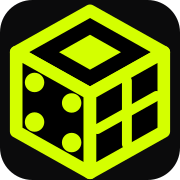
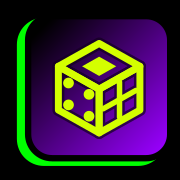
Icono nuevo de pestaña y de app en el estilo de placa de la familia AVHUB

diff --git a/vista/consola.html b/vista/consola.html
@@ -15,9 +15,9 @@
   <title>SCREENS · varias pantallas y proyección</title>
   <meta name="description" content="SCREENS: cálculo y simulación 3D de varias pantallas LED o de proyección y salas inmersivas de hasta 4 paredes y suelo.">
   <meta name="theme-color" content="#232325">
-  <link rel="icon" href="assets/screens-icono.svg?v=10.83" type="image/svg+xml">
-  <link rel="icon" href="assets/screens-icono-32.png?v=10.83" sizes="32x32" type="image/png">
-  <link rel="apple-touch-icon" href="assets/screens-icono-180.png?v=10.83">
+  <link rel="icon" href="assets/screens-icono-placa.svg?v=placa" type="image/svg+xml">
+  <link rel="icon" href="assets/screens-icono-32.png?v=placa" sizes="32x32" type="image/png">
+  <link rel="apple-touch-icon" href="assets/screens-icono-180.png?v=placa">
   <link rel="manifest" href="manifest.json?v=10.83">
   <!-- v7.2 · preferencias guardadas: pasan una sola vez de las claves antiguas a las nuevas (screens_*) -->
   <script>(function(){try{var L=localStorage,A='screencalc_',m={lang:'idioma',tema:'tema',pared:'pared',fuentes_v2:'fuentes_v2',descarga:'descarga'};Object.keys(m).forEach(function(k){var v=L.getItem(A+k);if(v!==null&&L.getItem('screens_'+m[k])===null)L.setItem('screens_'+m[k],v);L.removeItem(A+k);});['modelos_cache','electronicas_cache','hierros_cache','cache_timestamp'].forEach(function(k){L.removeItem(A+k);});}catch(e){}})();</script>

diff --git a/configuradores/index.html b/configuradores/index.html
@@ -8,9 +8,9 @@
 <meta property="og:title" content="Configuradores de pantallas">
 <meta property="og:description" content="SCREENS o el configurador oficial de TRAULUX: elige el que necesitas.">
 <meta property="og:image" content="https://screens.mediaservi.com/assets/promo/traulux-banner-728x90.png">
-<link rel="icon" href="../assets/screens-icono.svg?v=10.32" type="image/svg+xml">
-<link rel="icon" href="../assets/screens-icono-32.png?v=10.32" sizes="32x32" type="image/png">
-<link rel="apple-touch-icon" href="../assets/screens-icono-180.png?v=10.32">
+<link rel="icon" href="../assets/screens-icono-placa.svg?v=placa" type="image/svg+xml">
+<link rel="icon" href="../assets/screens-icono-32.png?v=placa" sizes="32x32" type="image/png">
+<link rel="apple-touch-icon" href="../assets/screens-icono-180.png?v=placa">
 <style>
 @font-face{font-family:'Inter';font-style:normal;font-weight:400;font-display:swap;src:url(../assets/fonts/inter-latin-400-normal.woff2) format('woff2')}
 @font-face{font-family:'Inter';font-style:normal;font-weight:500;font-display:swap;src:url(../assets/fonts/inter-latin-500-normal.woff2) format('woff2')}

diff --git a/blocks/consola.html b/blocks/consola.html
@@ -1,1 +1,1 @@
-<!doctype html><html lang="es"><head><meta charset="utf-8"><meta http-equiv="Cache-Control" content="no-cache, no-store, must-revalidate"><meta http-equiv="Pragma" content="no-cache"><meta http-equiv="Expires" content="0"><meta name="robots" content="noindex"><title>SCREENS</title><link rel="icon" href="../assets/screens-icono.svg?v=10.32" type="image/svg+xml"><script>location.replace('../vista/consola.html' + location.search + location.hash);</script></head><body><a href="../vista/consola.html">SCREENS</a></body></html>
+<!doctype html><html lang="es"><head><meta charset="utf-8"><meta http-equiv="Cache-Control" content="no-cache, no-store, must-revalidate"><meta http-equiv="Pragma" content="no-cache"><meta http-equiv="Expires" content="0"><meta name="robots" content="noindex"><title>SCREENS</title><link rel="icon" href="../assets/screens-icono-placa.svg?v=placa" type="image/svg+xml"><script>location.replace('../vista/consola.html' + location.search + location.hash);</script></head><body><a href="../vista/consola.html">SCREENS</a></body></html>

diff --git a/blocks/index.html b/blocks/index.html
@@ -1,1 +1,1 @@
-<!doctype html><html lang="es"><head><meta charset="utf-8"><meta http-equiv="Cache-Control" content="no-cache, no-store, must-revalidate"><meta http-equiv="Pragma" content="no-cache"><meta http-equiv="Expires" content="0"><meta name="robots" content="noindex"><title>SCREENS</title><link rel="icon" href="../assets/screens-icono.svg?v=10.32" type="image/svg+xml"><script>location.replace('../' + location.search + location.hash);</script></head><body><a href="../">SCREENS</a></body></html>
+<!doctype html><html lang="es"><head><meta charset="utf-8"><meta http-equiv="Cache-Control" content="no-cache, no-store, must-revalidate"><meta http-equiv="Pragma" content="no-cache"><meta http-equiv="Expires" content="0"><meta name="robots" content="noindex"><title>SCREENS</title><link rel="icon" href="../assets/screens-icono-placa.svg?v=placa" type="image/svg+xml"><script>location.replace('../' + location.search + location.hash);</script></head><body><a href="../">SCREENS</a></body></html>

diff --git a/clasica.html b/clasica.html
@@ -1,3 +1,3 @@
-<!doctype html><html lang="es"><head><meta charset="utf-8"><meta http-equiv="Cache-Control" content="no-cache, no-store, must-revalidate"><meta http-equiv="Pragma" content="no-cache"><meta http-equiv="Expires" content="0"><meta name="robots" content="noindex"><title>SCREENS</title><link rel="icon" href="./assets/screens-icono.svg?v=10.32" type="image/svg+xml">
+<!doctype html><html lang="es"><head><meta charset="utf-8"><meta http-equiv="Cache-Control" content="no-cache, no-store, must-revalidate"><meta http-equiv="Pragma" content="no-cache"><meta http-equiv="Expires" content="0"><meta name="robots" content="noindex"><title>SCREENS</title><link rel="icon" href="./assets/screens-icono-placa.svg?v=placa" type="image/svg+xml">
 <!-- v10.29 · la versión clásica de SCREENS se ha retirado: este archivo solo lleva los enlaces antiguos a la portada -->
 <script>location.replace('./' + location.hash);</script></head><body><a href="./">SCREENS</a></body></html>

diff --git a/led.html b/led.html
@@ -1,3 +1,3 @@
-<!doctype html><html lang="es"><head><meta charset="utf-8"><meta http-equiv="Cache-Control" content="no-cache, no-store, must-revalidate"><meta http-equiv="Pragma" content="no-cache"><meta http-equiv="Expires" content="0"><meta name="robots" content="noindex"><title>SCREENS</title><link rel="icon" href="./assets/screens-icono.svg?v=10.32" type="image/svg+xml">
+<!doctype html><html lang="es"><head><meta charset="utf-8"><meta http-equiv="Cache-Control" content="no-cache, no-store, must-revalidate"><meta http-equiv="Pragma" content="no-cache"><meta http-equiv="Expires" content="0"><meta name="robots" content="noindex"><title>SCREENS</title><link rel="icon" href="./assets/screens-icono-placa.svg?v=placa" type="image/svg+xml">
 <!-- v10.29 · la versión clásica de SCREENS se ha retirado: este archivo solo lleva los enlaces antiguos a la portada -->
 <script>location.replace('./' + location.hash);</script></head><body><a href="./">SCREENS</a></body></html>

diff --git a/index.html b/index.html
@@ -15,9 +15,9 @@
 <title>SCREENS</title>
 <meta name="description" content="SCREENS: cálculo de pantallas LED y de proyección, con simulación a escala, cableado, esquema de conexión, lista de material y PDF.">
 <meta name="theme-color" content="#232325">
-<link rel="icon" href="../assets/screens-icono.svg?v=10.83" type="image/svg+xml">
-<link rel="icon" href="../assets/screens-icono-32.png?v=10.83" sizes="32x32" type="image/png">
-<link rel="apple-touch-icon" href="../assets/screens-icono-180.png?v=10.83">
+<link rel="icon" href="../assets/screens-icono-placa.svg?v=placa" type="image/svg+xml">
+<link rel="icon" href="../assets/screens-icono-32.png?v=placa" sizes="32x32" type="image/png">
+<link rel="apple-touch-icon" href="../assets/screens-icono-180.png?v=placa">
 <link rel="manifest" href="../manifest.json?v=10.83">
 <link rel="stylesheet" href="../comun/ficha.css?v=10.83">
 <link rel="stylesheet" href="iconos.css?v=10.83">

diff --git a/README.md b/README.md
@@ -14,6 +14,11 @@ Desde la v10.29 **no hay versión clásica**: `led.html` y `clasica.html` solo l
 
 SCREENS es uno de los apartados de AVHUB, cada uno con su subdominio: screens, systems, adposter, vjshow y msgame (`*.mediaservi.com`); avhub.mediaservi.com los reúne.
 
+
+## Icono
+
+Icono de pestaña y de app (noviembre 2026) en el estilo de placa de la familia AVHUB: placa con degradado negro a morado, filete negro y sombra verde, con el isotipo de la app. El logo de la cabecera no cambia.
+
 ## Para qué sirve
 
 Para pasar de una petición como *"pantalla led para exterior de 6x2 metros que se lea bien a 4 m"* a una propuesta técnica verificable: modelo de cabinet o proyector, número de equipos, resolución, peso, consumo, líneas de señal y eléctricas, electrónica y mediaserver, esquema de conexión, lista de material y PDF.
